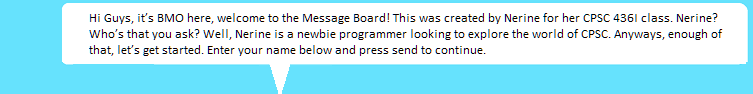
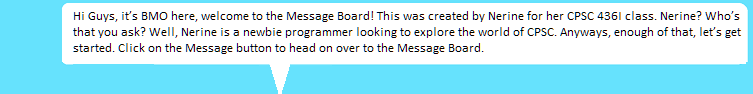
Added JSON parse

Changed region(s): [[0.0916, 0.2766, 1.0, 0.4255], [0.0916, 0.1064, 1.0, 0.2553], [0.0916, 0.4681, 0.6414, 0.5957]]

diff --git a/homePage.htm b/homePage.htm
@@ -7,37 +7,28 @@
     <nav id="navigation">
       <div class="tab">
         <button idclass="tablinks" onclick="openWelcome()">Home Page</button>
-        <button class="tablinks" onclick="openChatPage()">Chat</button>
+        <button class="tablinks" onclick="openChatPage()">Message</button>
         
     <img id="introduction" src="introduction.png" align="right">
       </div>
     </nav>
-    
-    <!-- <header id="home-header">
-      <p>
-        <!-- <img src="introduction.png" align="right"> -->
-      </p>
-    </header> -->
-<!-- 
-    <img id="introduction" src="introduction.png" align="right"> -->
+
+
     
     <div id="message-container">
       <textarea id="beemo-face" rows="25" cols="75" readonly></textarea>
         <div id="bottom-background">
-        </div>  <div id="send-container">
+        </div>  
+        <div id="send-container">
           <div id="enter-container">
-            <textarea id="text-input" rows=3 cols=60></textarea>
-            <button id="send-button" onclick="addMessage()">Send</button>
+            <textarea id="name-input" rows=3 cols=60></textarea>
+            <img src="blue-circle.png"">
           </div>
         </div>
     
       </div>
     </div>
-
-    <!-- <div id="introduction-container">
-      <img src="introduction.png">
-    </div> -->
-      
+    
     
     <div id="button-container">
       <div id="button-block">

diff --git a/functions.js b/functions.js
@@ -1,6 +1,25 @@
 var message;
 var messageList = [];
+var name;
+var myJSON = '{"welcome-message":"Welcome", "random":"Leave a message!"}';
+var myObj;
 
+function loadText(){
+    name = document.getElementById("name-input");
+    myObj = JSON.parse(myJSON);
+    messageList.push(myObj.welcome-message + name + "!");
+    openChatPage();
+}
+
+function loadMessages(){
+    myMsg = JSON.parse(myJSON);
+    messageList.push(myMsg.random);
+    document.getElementById("see-message").value = messageList.join("\n\n");
+}
+
+function enterChat(){
+    openChatPage();
+}
 
 function purifyWord(phrase){
     var checkBox = document.getElementById("pg13");
@@ -22,7 +41,12 @@ function addMessage(){
 }
 
 function clearInputText(){
+    document.getElementById("text-input").value = "";
+}
 
+function clearMessages(){
+    messageList = [];
+    document.getElementById("see-message").value = messageList;
 }
 
 function openWelcome(){

diff --git a/style.css b/style.css
@@ -22,6 +22,12 @@
   z-index: 1;
 }
 
+#name-input{
+  position: left;
+  background-color: rgb(10, 48, 46);
+  color:rgb(18, 245, 18);
+}
+
 #home-page-button{
   display: block;
   height: 75px;
@@ -51,7 +57,7 @@
   height: 525px;
   width: 100%;
   /* border: 3px solid rgba(0, 0, 255, 0.63); */
-  background-color: rgba(82, 184, 159, 0.774);
+  background-color: rgba(82, 184, 159, 0.763);
 }
 
 
@@ -108,7 +114,7 @@ textarea{
   height: 100%;
   width: 100%;
   /* border: 3px solid rgba(0, 0, 255, 0.63); */
-  background-color: rgba(82, 184, 159, 0.774);
+  background-color: rgba(82, 184, 159, 0.763);
   
 }
 

diff --git a/chatPage.htm b/chatPage.htm
@@ -4,10 +4,12 @@
 <script type="text/javascript" src="functions.js"></script>
 
 
+<body onload="loadMessages()"></body>;
+
 <nav id="navigation">
   <div class="tab">
     <button class="tablinks" onclick="openWelcome()">Home Page</button>
-    <button class="tablinks" onclick="openChatPage()">Chat</button>
+    <button class="tablinks" onclick="openChatPage()">Message</button>
   </div>
 </nav>
 
